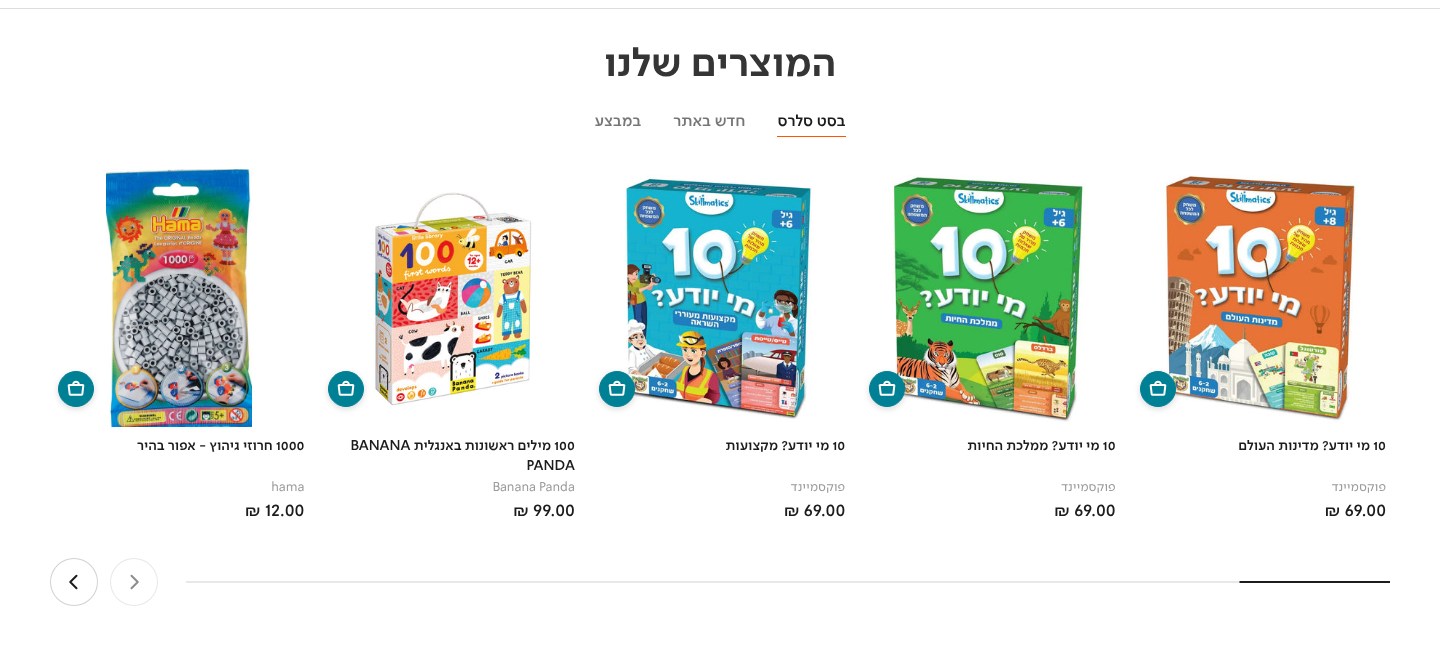
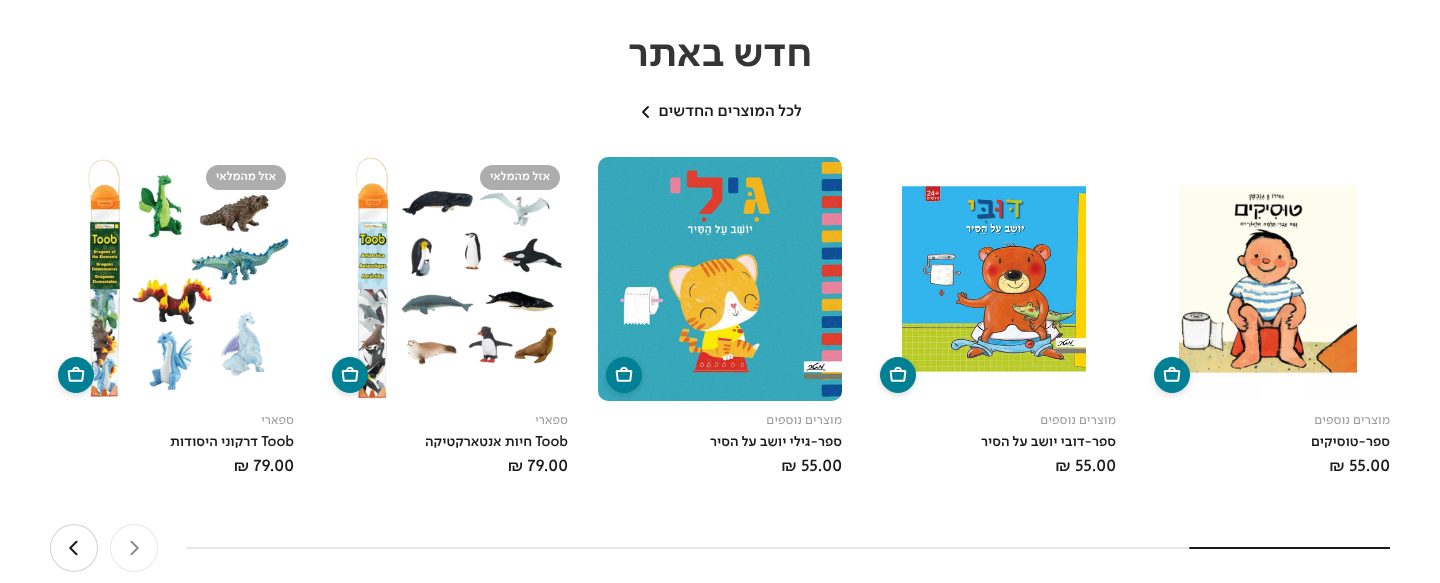
fix(cards): brand above the title, no reserved title height
Claude-Session: https://claude.ai/code/session_01QfBjERy37Re1AYHdyrQKXr

diff --git a/assets/mk-custom.css b/assets/mk-custom.css
@@ -145,17 +145,17 @@
 .product-card .product-card__wrapper .product-card__info .f-price { justify-content: flex-start !important; width: 100%; }
 .product-card .product-card__wrapper .product-card__title,
 .product-card .product-card__wrapper .product-card__title a { width: 100%; }
-/* Order: title, brand, price */
-.product-card .product-card__info > * { order: 3; }
-.product-card .product-card__info > .product-card__title { order: 1; }
+/* Order: brand, title, price (Hyper's own order); nothing reserved, so no gap under short titles */
 .product-card .product-card__info > .product-card__vendor,
-.product-card .product-card__info > .product-card__type { order: 2; }
+.product-card .product-card__info > .product-card__type { order: 1; }
+.product-card .product-card__info > .product-card__title { order: 2; }
+.product-card .product-card__info > .f-price,
+.product-card .product-card__info > .price { order: 3; }
 .product-card .product-card__title {
   font-size: 1.4rem;
   font-weight: 600;
   line-height: 1.4;
   color: rgb(var(--mk-color-text));
-  min-height: calc(2 * 1.4rem * 1.4);
 }
 .product-card .product-card__title a,
 .product-card .product-card__title .reversed-link {
